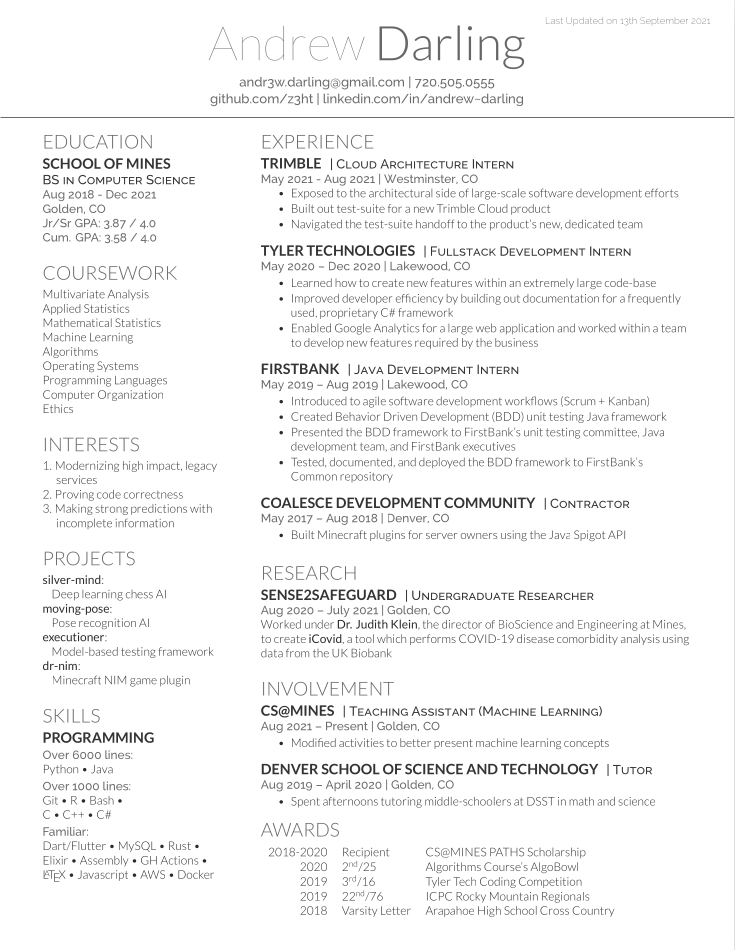
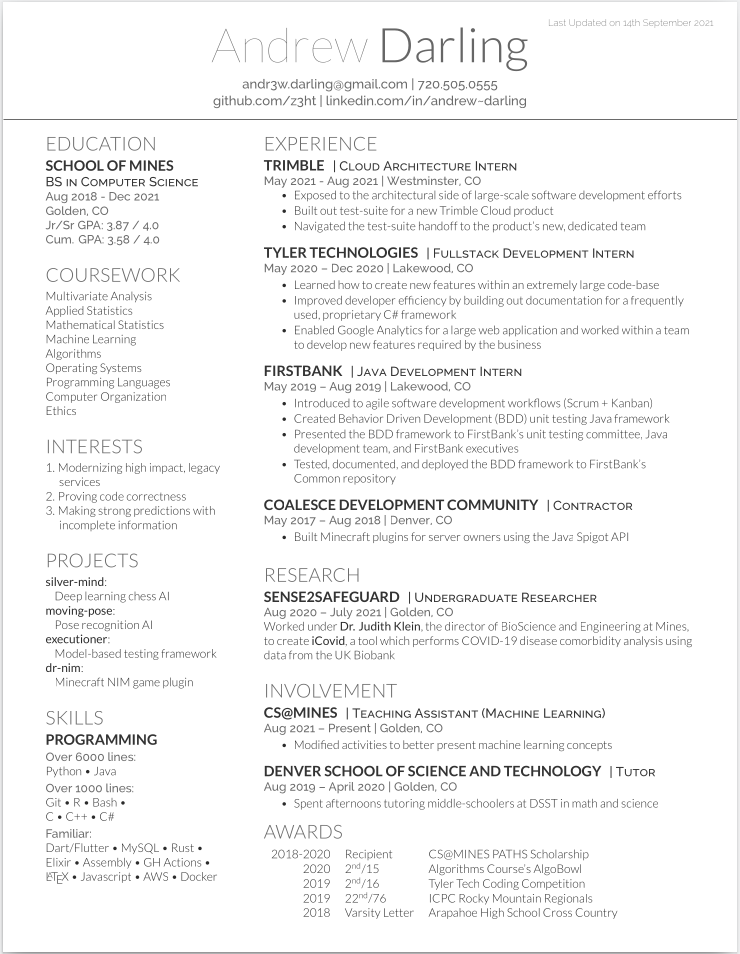
Fix errors

diff --git a/src/darling-resume-openfont.tex b/src/darling-resume-openfont.tex
@@ -236,8 +236,8 @@ Worked under \textbf{\href{https://chemistry.mines.edu/project/klein-seetharaman
 \section{Awards}
 \begin{tabular}{rll}
 2018-2020 & Recipient & CS@MINES PATHS Scholarship \\
-2020 & 2\textsuperscript{nd}/25 & Algorithms Course's AlgoBowl \\
-2019 & 3\textsuperscript{rd}/16 & Tyler Tech Coding Competition \\
+2020 & 2\textsuperscript{nd}/15 & Algorithms Course's AlgoBowl \\
+2019 & 2\textsuperscript{nd}/16 & Tyler Tech Coding Competition \\
 2019 & 22\textsuperscript{nd}/76 & ICPC Rocky Mountain Regionals \\
 2018 & Varsity Letter & Arapahoe High School Cross Country \\
 \end{tabular}
